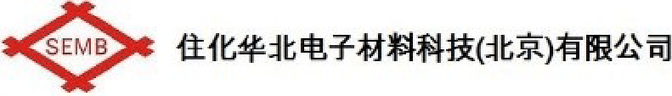
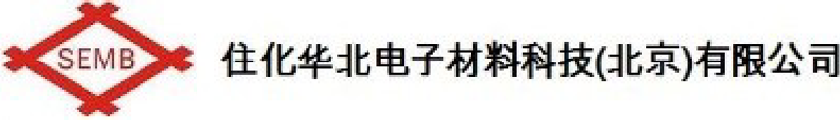
fix: 로고 띠 - 원래 색 · 잘림 해소 · 제목 줄 보강
색을 처음부터 보여줍니다. 로고는 색이 곧 식별 정보라 회색으로 눕히면
어느 회사인지 한 박자 늦게 읽힙니다.

잘림은 두 가지가 겹쳐 있었습니다.
표 경계선이 함께 잘려 들어와 트림이 막혀 있었고, 넉넉히 다시 잘라
네 개 모두 온전한 크기로 뽑았습니다. 높이도 96에서 120px로 올렸습니다.
목록이 네 개뿐이라 한 벌이 화면보다 짧아 로고가 양 끝 페이드에 오래
머물렀습니다. 여섯 벌로 늘려 촘촘하게 하고 페이드 폭도 72에서 40px로
좁혔습니다.

제목 줄은 왼쪽 제목 · 오른쪽 링크로 바꿨습니다. 로고만 흘려보내면
그래서 뭘 봐야 하나로 끝나는데 링크가 있으면 실적으로 이어집니다.

diff --git a/components/sections/ClientLogos.tsx b/components/sections/ClientLogos.tsx
@@ -3,81 +3,115 @@ import { useTranslations } from 'next-intl';
 
 import Container from '@/components/layout/Container';
 import Reveal from '@/components/motion/Reveal';
+import SectionLabel from '@/components/ui/SectionLabel';
+import { Link } from '@/i18n/navigation';
 import { CLIENT_LOGOS, SECTIONS, STRIP_IMAGES } from '@/content/site';
 
 /**
- * 가로로 흐르는 띠
+ * 가로로 흐르는 띠 — 고객사 로고 또는 사진
  *
- * 두 가지를 싣습니다. 지금은 사진, 나중에는 고객사 로고입니다.
- *   로고 모드  CLIENT_LOGOS가 차고 SECTIONS.clients가 켜지면 자동으로 전환됩니다
+ *   로고 모드  CLIENT_LOGOS가 차고 SECTIONS.clients가 켜지면 전환됩니다
  *   사진 모드  그전까지 STRIP_IMAGES를 흘립니다
  *
  * 움직이는 방식
- *   같은 목록을 두 벌 이어 붙이고 정확히 절반만큼 밉니다.
+ *   같은 목록을 짝수 벌 이어 붙이고 정확히 절반만큼 밉니다.
  *   한 바퀴가 끝나는 순간의 화면이 시작할 때와 같아 이음매가 보이지 않습니다.
  *   JS가 없어 탭을 벗어나면 브라우저가 알아서 멈춥니다.
  *   (CSS는 app/globals.css의 .marquee)
- *
- * ⚠ 로고는 상표입니다. 회사명을 글로 적는 것과 로고를 거는 것은 다릅니다.
- *   고객사별 서면 사용 동의 없이 올리면 실제 분쟁 사유가 됩니다.
- *
- * ⚠ 사진 모드의 제목은 「고객사」라고 말하지 않습니다.
- *   스톡 사진이라 우리가 지은 현장이 아니고, 사실은 업종 문구가 담습니다.
  */
 
 /** 항목이 늘면 띠도 길어집니다. 체감 속도를 맞추려면 시간도 함께 늘려야 합니다. */
 const SECONDS_PER_ITEM = 6;
 
+/**
+ * 목록을 몇 벌 이어 붙일지.
+ *
+ * 항목이 적으면 한 벌이 화면보다 짧아 띠 중간에 빈 구간이 생기고,
+ * 로고 하나가 양 끝 페이드에 걸린 채 오래 머물러 잘려 보입니다.
+ * 벌 수를 늘리면 띠가 촘촘해져 그 구간이 사라집니다.
+ * 밀어내는 양이 -50%라서 벌 수는 반드시 짝수여야 이음매가 맞습니다.
+ */
+function copiesFor(count: number) {
+  if (count <= 4) return 6;
+  if (count <= 8) return 4;
+  return 2;
+}
+
 export default function ClientLogos() {
   const t = useTranslations('clients');
 
   const logoMode = SECTIONS.clients && CLIENT_LOGOS.length > 0;
-  const items = logoMode ? CLIENT_LOGOS.length : STRIP_IMAGES.length;
+  const count = logoMode ? CLIENT_LOGOS.length : STRIP_IMAGES.length;
 
-  if (items === 0) return null;
+  if (count === 0) return null;
 
-  const duration = `${Math.max(28, items * SECONDS_PER_ITEM)}s`;
+  const copies = copiesFor(count);
+  const duration = `${Math.max(28, count * SECONDS_PER_ITEM * (copies / 2))}s`;
 
   return (
-    <section className="overflow-x-clip border-t border-line bg-white py-14 lg:py-16">
+    <section className="overflow-x-clip border-t border-line bg-white py-16 lg:py-20">
       <Container>
+        {/*
+          제목 줄 — 왼쪽에 제목, 오른쪽에 다음 행동.
+          대기업 사이트의 로고 띠가 공통으로 쓰는 배치입니다. 로고만 흘려보내면
+          「그래서 뭘 봐야 하나」로 끝나는데, 링크가 하나 있으면 실적으로 이어집니다.
+        */}
         <Reveal>
-          <div className="flex flex-wrap items-baseline gap-x-5 gap-y-1">
-            <h2 className="text-h4 font-medium tracking-[-0.01em] text-navy-900">
-              {logoMode ? t('logoHeading') : t('heading')}
-            </h2>
-            <p className="text-caption text-navy-700/65">
-              {logoMode ? t('logoLead') : t('lead')}
-            </p>
+          <div className="flex flex-wrap items-end justify-between gap-x-10 gap-y-5">
+            <div className="min-w-0">
+              <SectionLabel tone="green">{t('label')}</SectionLabel>
+              <h2 className="mt-4 text-h3 font-medium tracking-[-0.015em] text-navy-900">
+                {logoMode ? t('logoHeading') : t('heading')}
+              </h2>
+              <p className="mt-3 max-w-[42rem] text-body leading-relaxed text-navy-700/70">
+                {logoMode ? t('logoLead') : t('lead')}
+              </p>
+            </div>
+
+            <Link
+              href="/about"
+              className="group inline-flex shrink-0 items-center gap-2 border-b border-navy-700/25 pb-1.5 text-caption font-medium text-navy-900 transition-colors hover:border-azure-600 hover:text-azure-600"
+            >
+              {t('more')}
+              <span
+                aria-hidden="true"
+                className="transition-transform duration-300 group-hover:translate-x-1"
+              >
+                →
+              </span>
+            </Link>
           </div>
         </Reveal>
       </Container>
 
       {/* 컨테이너 밖에 둡니다 — 안에 가두면 띠가 중간에서 잘려 멈춘 것처럼 보입니다 */}
-      <div className="marquee-viewport mt-9 overflow-hidden">
+      <div className="marquee-viewport mt-11 overflow-hidden">
         <ul className="marquee" style={{ ['--marquee-duration' as string]: duration }}>
-          {/* 두 벌째는 이음매를 메우기 위한 복제본이라 읽어주지 않습니다 */}
-          {[0, 1].map((copy) => (
-            <li key={copy} aria-hidden={copy === 1} className="flex shrink-0">
+          {/* 첫 벌만 읽어줍니다. 나머지는 이음매를 메우기 위한 복제본입니다 */}
+          {Array.from({ length: copies }, (_, copy) => (
+            <li key={copy} aria-hidden={copy > 0} className="flex shrink-0">
               {logoMode
                 ? CLIENT_LOGOS.map((logo) => (
-                    <span key={logo.id} className="mx-8 flex shrink-0 items-center lg:mx-10">
+                    <span
+                      key={logo.id}
+                      className="mx-7 flex h-10 shrink-0 items-center lg:mx-9 lg:h-11"
+                    >
                       <Image
                         src={logo.src}
                         alt={copy === 0 ? logo.name : ''}
                         width={logo.width}
                         height={logo.height}
-                        sizes="200px"
-                        /* 회색으로 눕혔다가 커서를 올리면 원래 색으로 — 로고끼리 색이 싸우지 않습니다 */
-                        className="h-8 w-auto opacity-70 grayscale transition duration-300 hover:opacity-100 hover:grayscale-0 lg:h-9"
+                        sizes="240px"
+                        /* 원래 색 그대로 둡니다. 로고는 색이 곧 식별 정보라
+                           회색으로 눕히면 어느 회사인지 한 박자 늦게 읽힙니다.
+                           높이만 맞추고 가로는 비율대로 둡니다 — 억지로 같은 폭에
+                           넣으면 가로로 긴 로고가 찌그러집니다. */
+                        className="h-full w-auto max-w-none"
                       />
                     </span>
                   ))
                 : STRIP_IMAGES.map((img) => (
-                    <span
-                      key={img.id}
-                      className="mx-3 shrink-0 overflow-hidden rounded-lg lg:mx-4"
-                    >
+                    <span key={img.id} className="mx-3 shrink-0 overflow-hidden rounded-lg lg:mx-4">
                       <Image
                         src={img.src}
                         alt={copy === 0 ? img.alt : ''}

diff --git a/content/site.ts b/content/site.ts
@@ -131,10 +131,10 @@ export type ClientLogo = {
 };
 
 export const CLIENT_LOGOS: ReadonlyArray<ClientLogo> = [
-  { id: 'dongwoo', name: '동우화인켐', src: '/images/clients/dongwoo.png', width: 420, height: 96 },
-  { id: 'tunghsu', name: 'TUNGHSU GROUP', src: '/images/clients/tunghsu.png', width: 316, height: 96 },
-  { id: 'semv', name: 'SEMV', src: '/images/clients/semv.png', width: 335, height: 96 },
-  { id: 'semb', name: 'SEMB', src: '/images/clients/semb.png', width: 672, height: 96 },
+  { id: 'dongwoo', name: '동우화인켐', src: '/images/clients/dongwoo.png', width: 737, height: 120 },
+  { id: 'tunghsu', name: 'TUNGHSU GROUP', src: '/images/clients/tunghsu.png', width: 451, height: 120 },
+  { id: 'semv', name: 'SEMV', src: '/images/clients/semv.png', width: 453, height: 120 },
+  { id: 'semb', name: 'SEMB', src: '/images/clients/semb.png', width: 840, height: 120 },
 ];
 
 /* ────────────────────────────────────────────────────────────

diff --git a/content/messages/ko.ts b/content/messages/ko.ts
@@ -322,6 +322,9 @@ const ko = {
    * 여기에는 제목만 둡니다.
    */
   clients: {
+    label: 'CLIENTS',
+    more: '수행 실적 자세히 보기',
+
     /* 사진 모드 — 사진은 삽화이고, 사실은 이 업종 문구가 담습니다 */
     heading: '우리가 일해 온 분야',
     lead: '광학필름 · 케미칼 · 자동차 부품 · 전자 부품 · LCD 부품',

diff --git a/app/globals.css b/app/globals.css
@@ -525,15 +525,15 @@
   -webkit-mask-image: linear-gradient(
     to right,
     transparent,
-    #000 72px,
-    #000 calc(100% - 72px),
+    #000 40px,
+    #000 calc(100% - 40px),
     transparent
   );
   mask-image: linear-gradient(
     to right,
     transparent,
-    #000 72px,
-    #000 calc(100% - 72px),
+    #000 40px,
+    #000 calc(100% - 40px),
     transparent
   );
 }

diff --git a/content/messages/en.ts b/content/messages/en.ts
@@ -249,6 +249,9 @@ const en: Messages = {
   },
 
   clients: {
+    label: 'CLIENTS',
+    more: 'See the full track record',
+
     heading: 'Where we work',
     lead: 'Optical film · Chemicals · Automotive parts · Electronic components · LCD components',
     logoHeading: 'Companies we work with',
